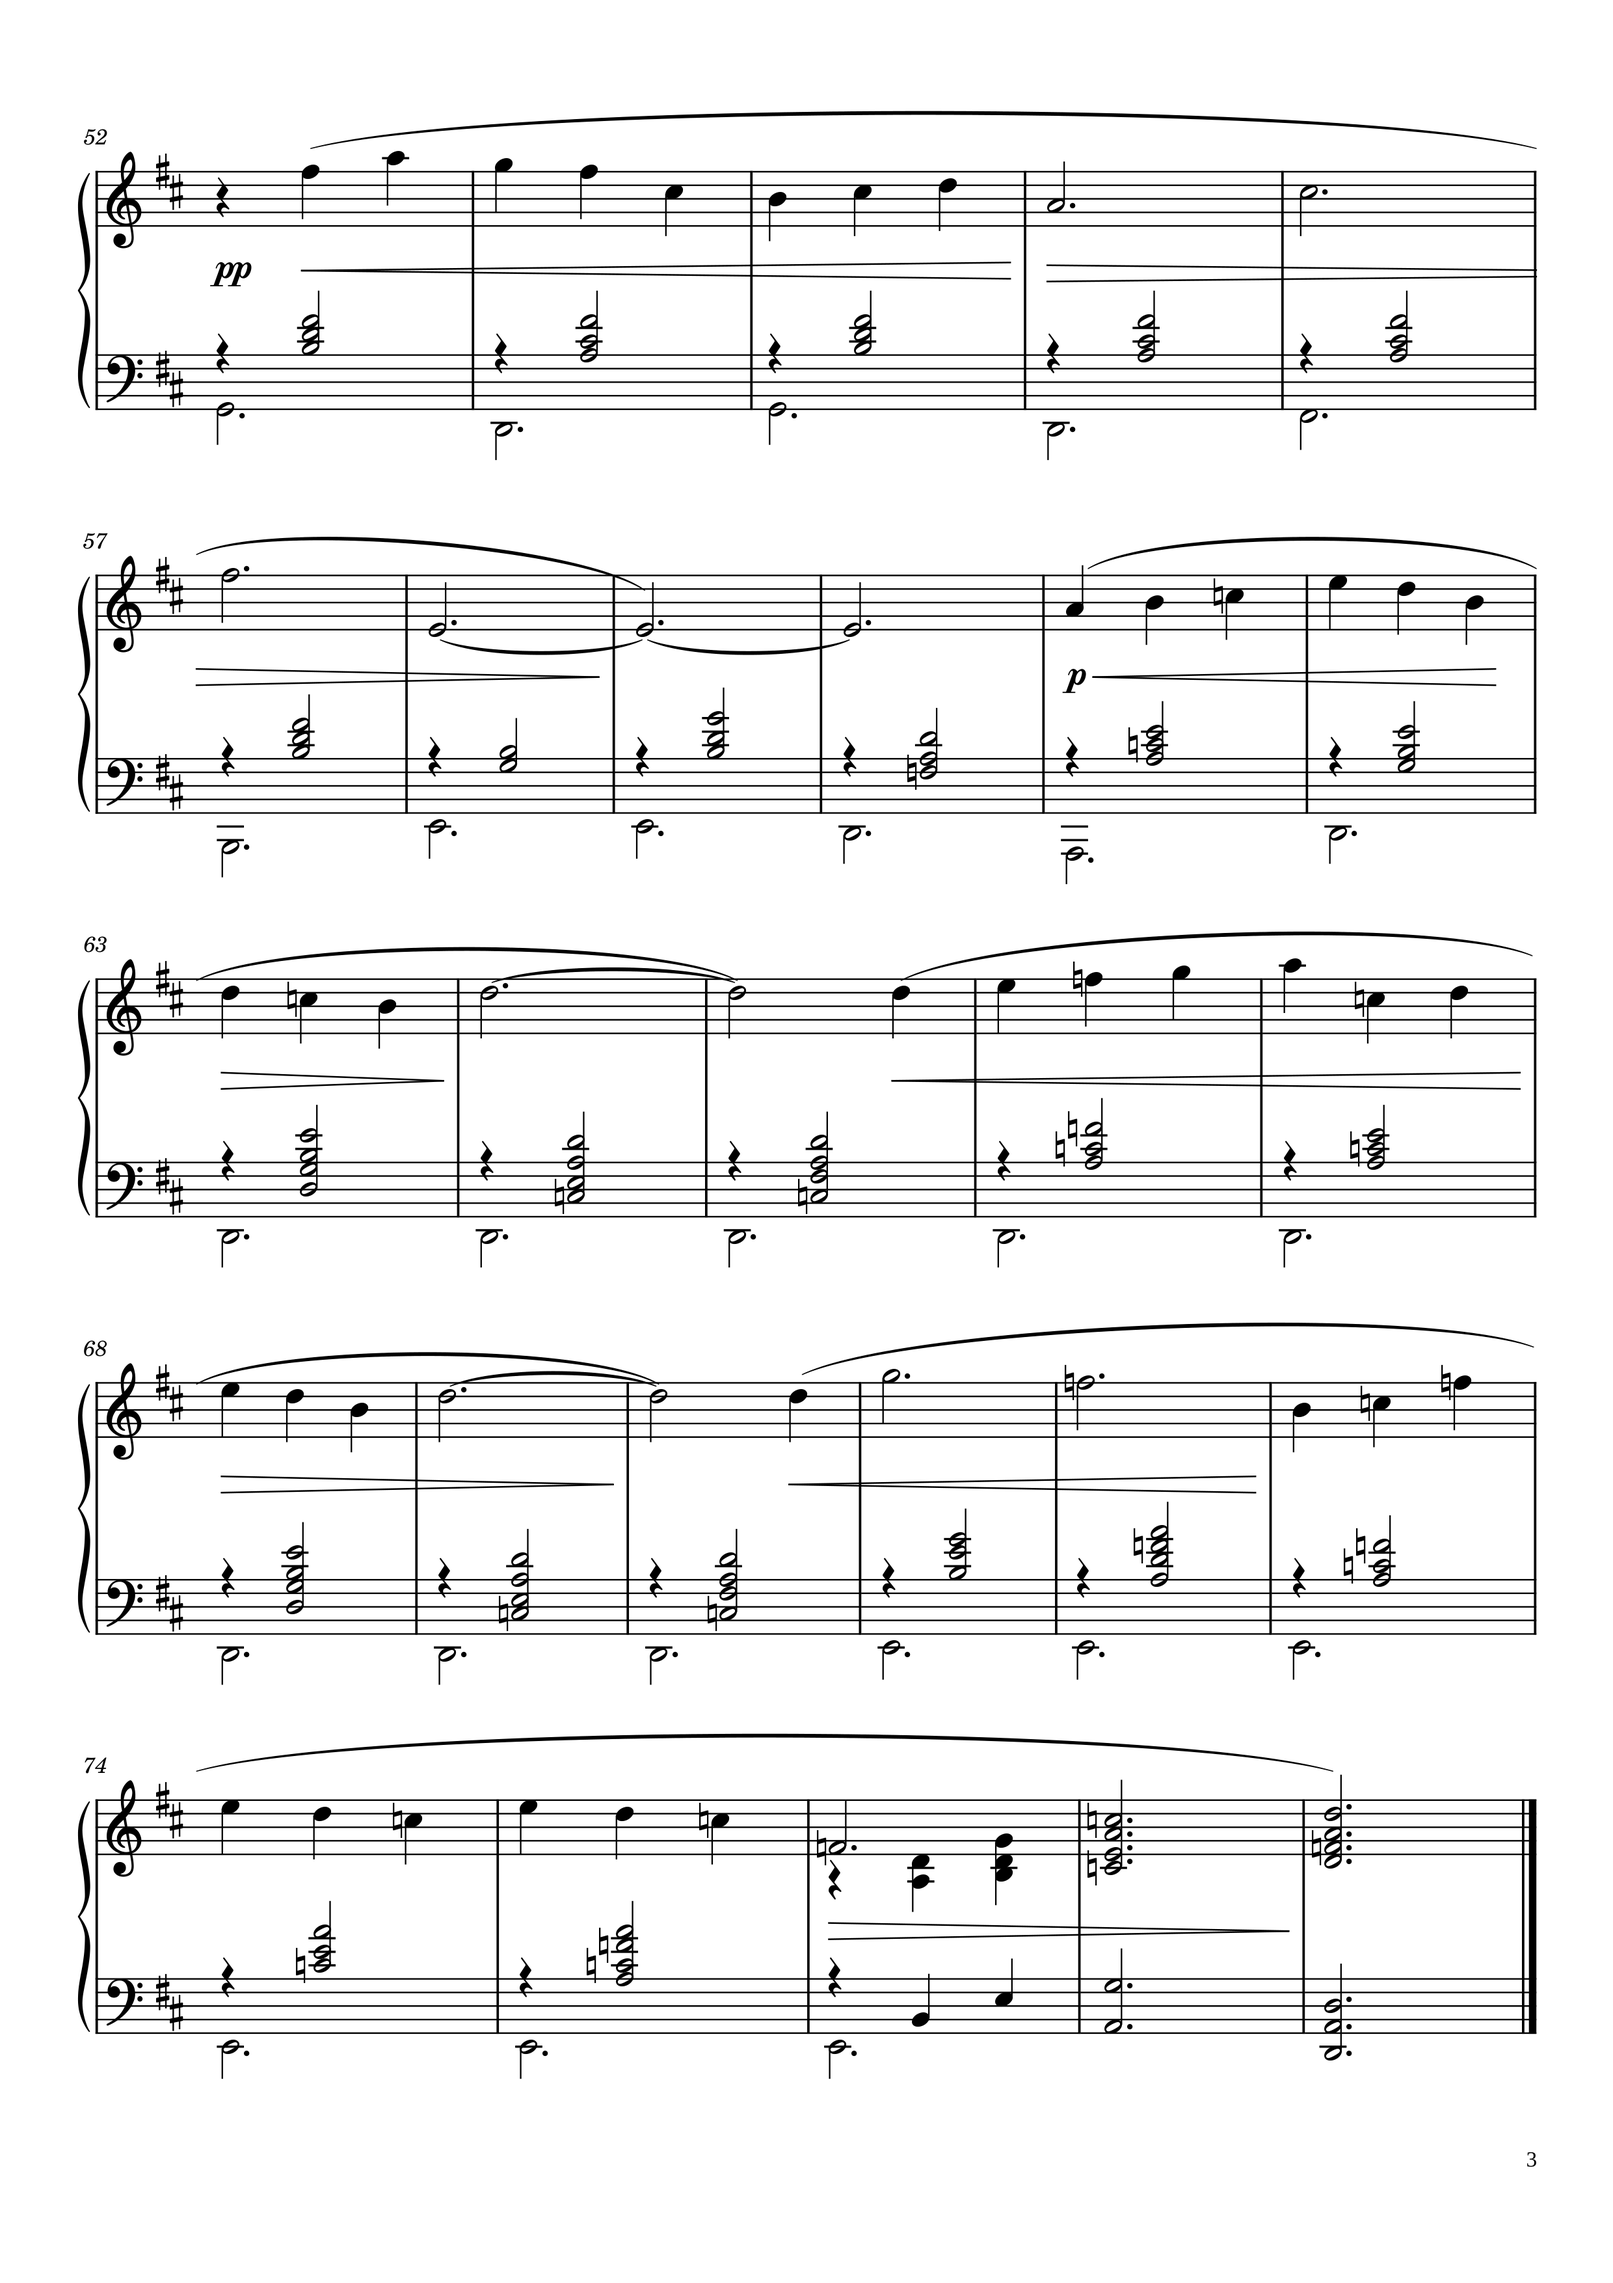
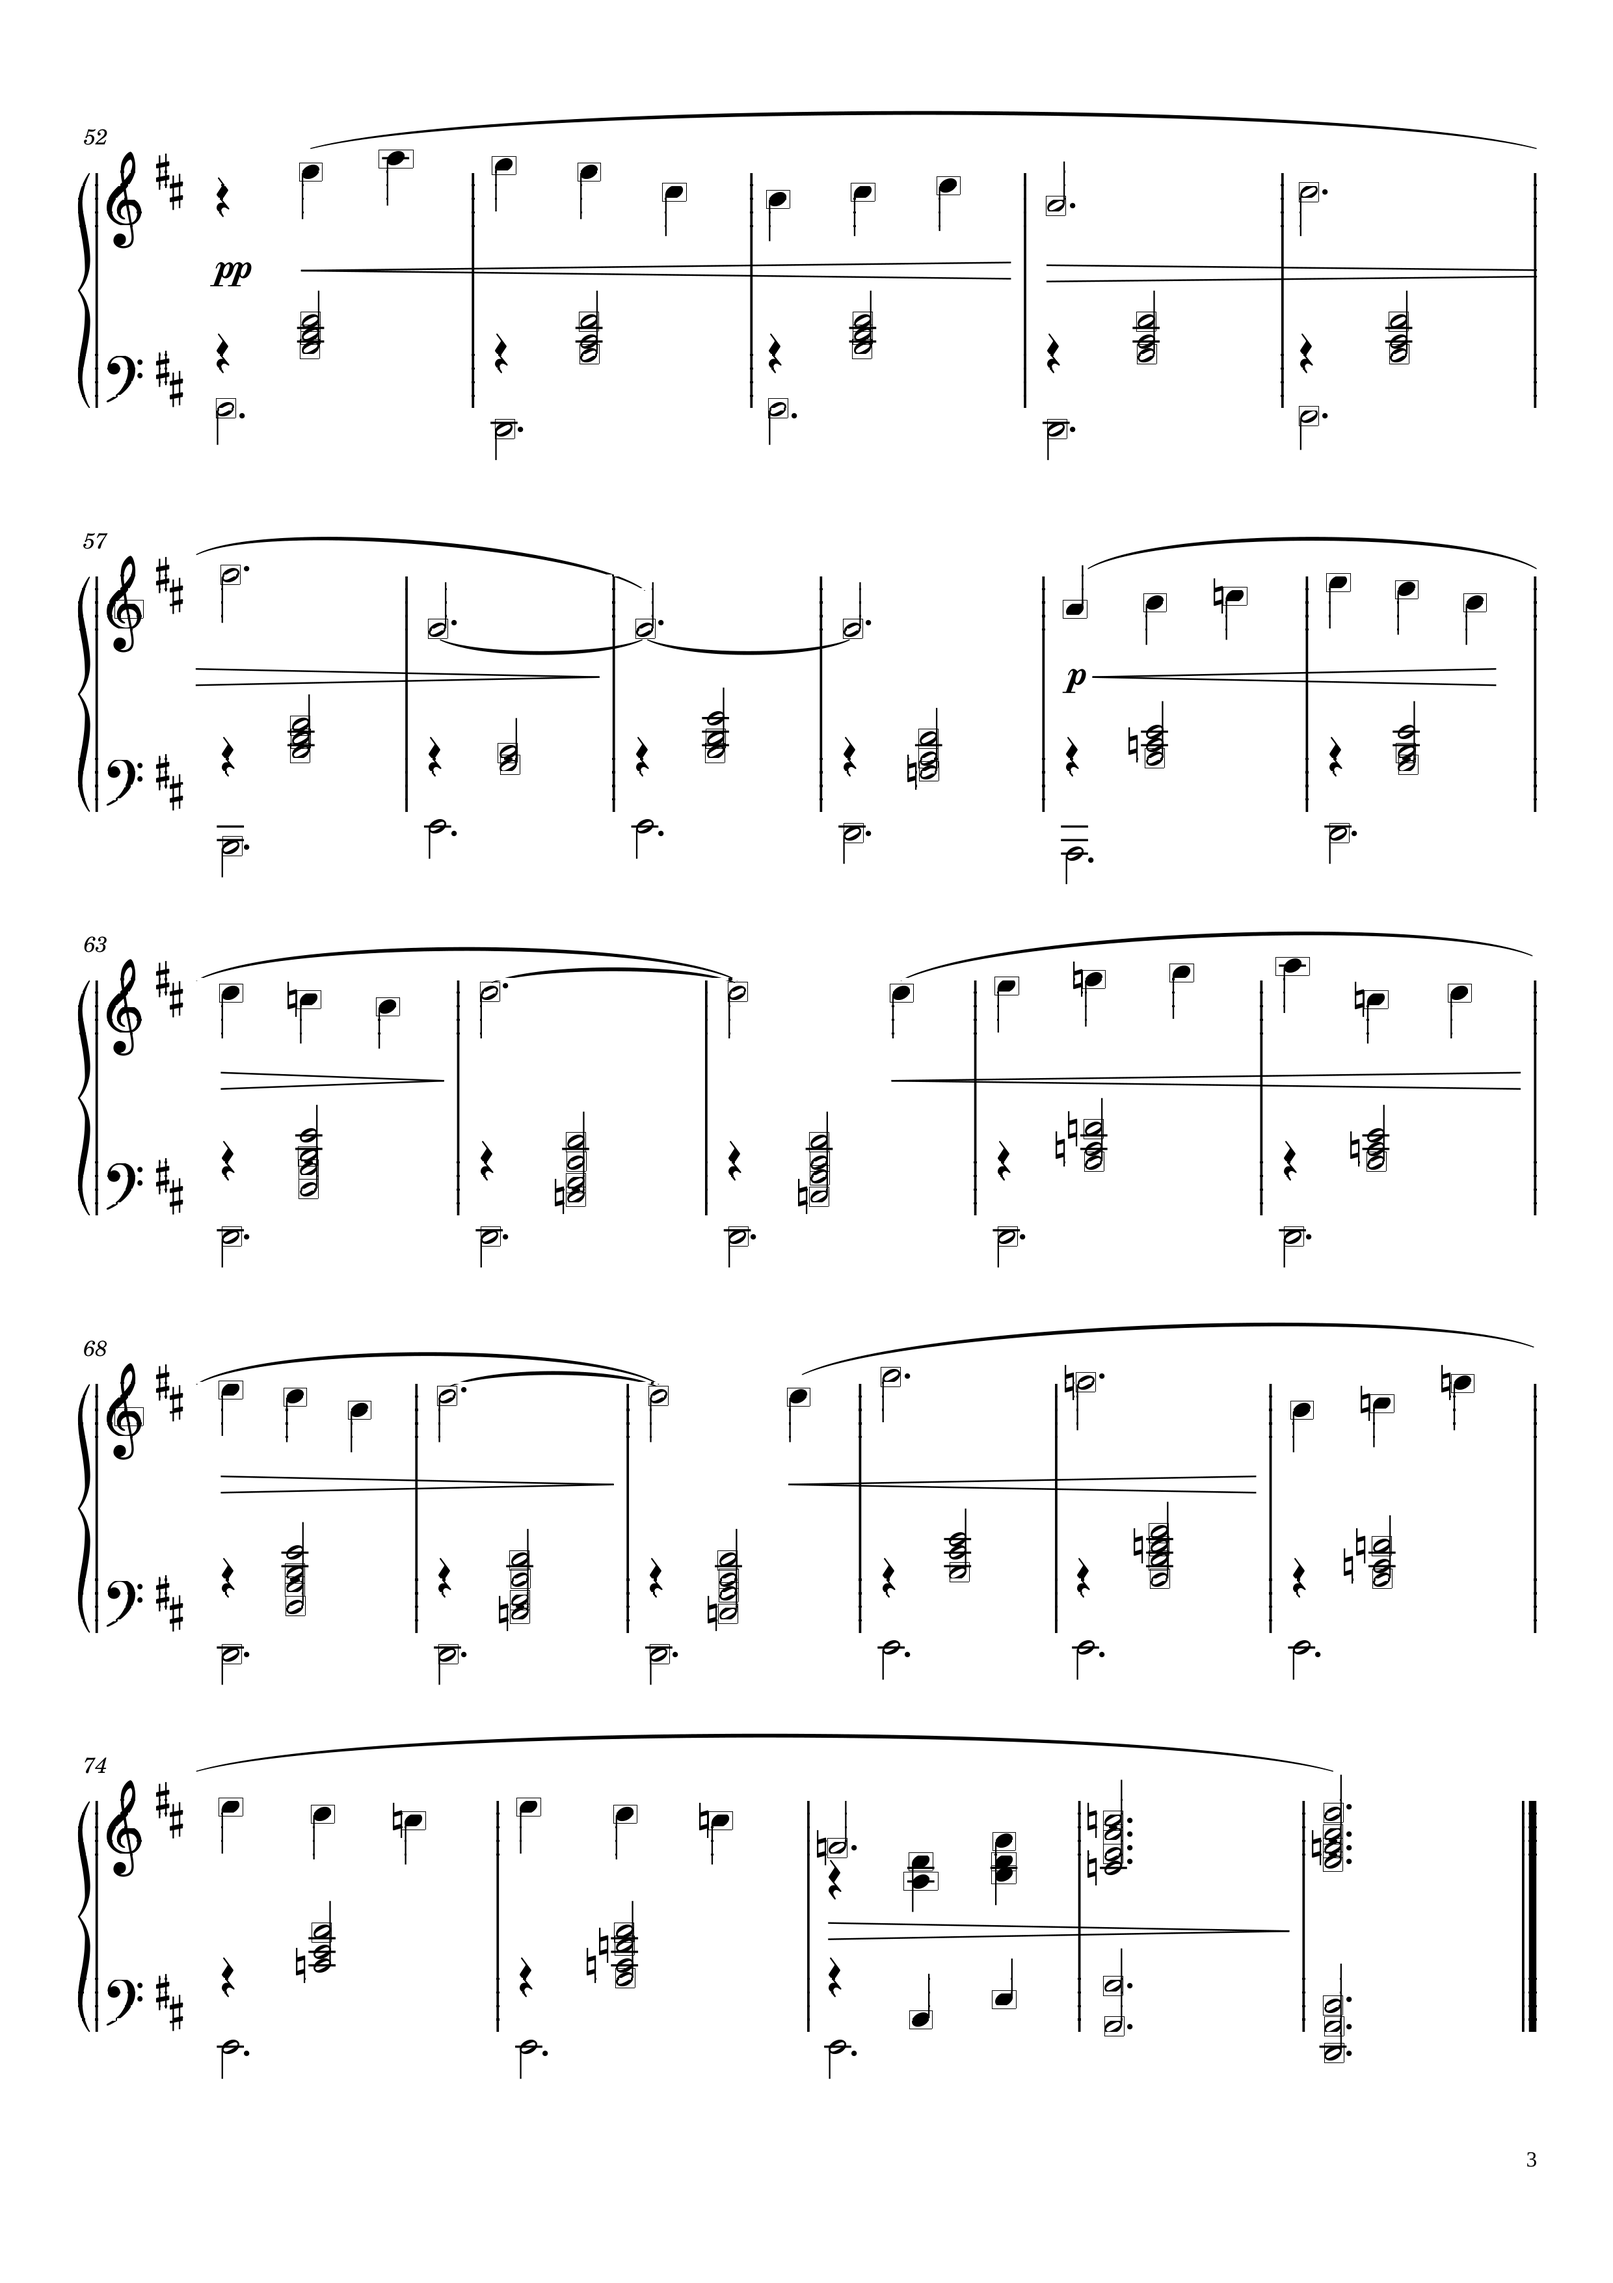
workonlogicontopfigureoutwhat'swrong

diff --git a/testing.py b/testing.py
@@ -251,6 +251,13 @@ def process_line(input_y, img_array, width, difference_between_lines_for_line_dr
 
 
                 #its ok its doing it twice it's bc it is drawing it on the new y and the current y before they decide which one is better
+                    
+
+
+
+
+
+                #THE LOGIC IS HERE JUST WORK ON IT!
                 if white_note:
                     first_switch = False
                     space_counter = 0
@@ -274,7 +281,7 @@ def process_line(input_y, img_array, width, difference_between_lines_for_line_dr
                                 if temp_pixel_above == 0:
                                     break
                                 temp_y_above -= 1
-                            if past_temp_y == -1 or (abs(past_temp_y - temp_y_above) <= round(difference_between_lines / 10) and abs(past_temp_y - temp_y_below) <= round(difference_between_lines / 10)):
+                            if past_temp_y == -1 or (abs(past_temp_y - temp_y_above) <= round(difference_between_lines / 10) and abs(past_temp_y - temp_y_above) <= round(difference_between_lines / 10)):
                                 past_temp_y = temp_y_above
                             else:
                                 white_note = False
